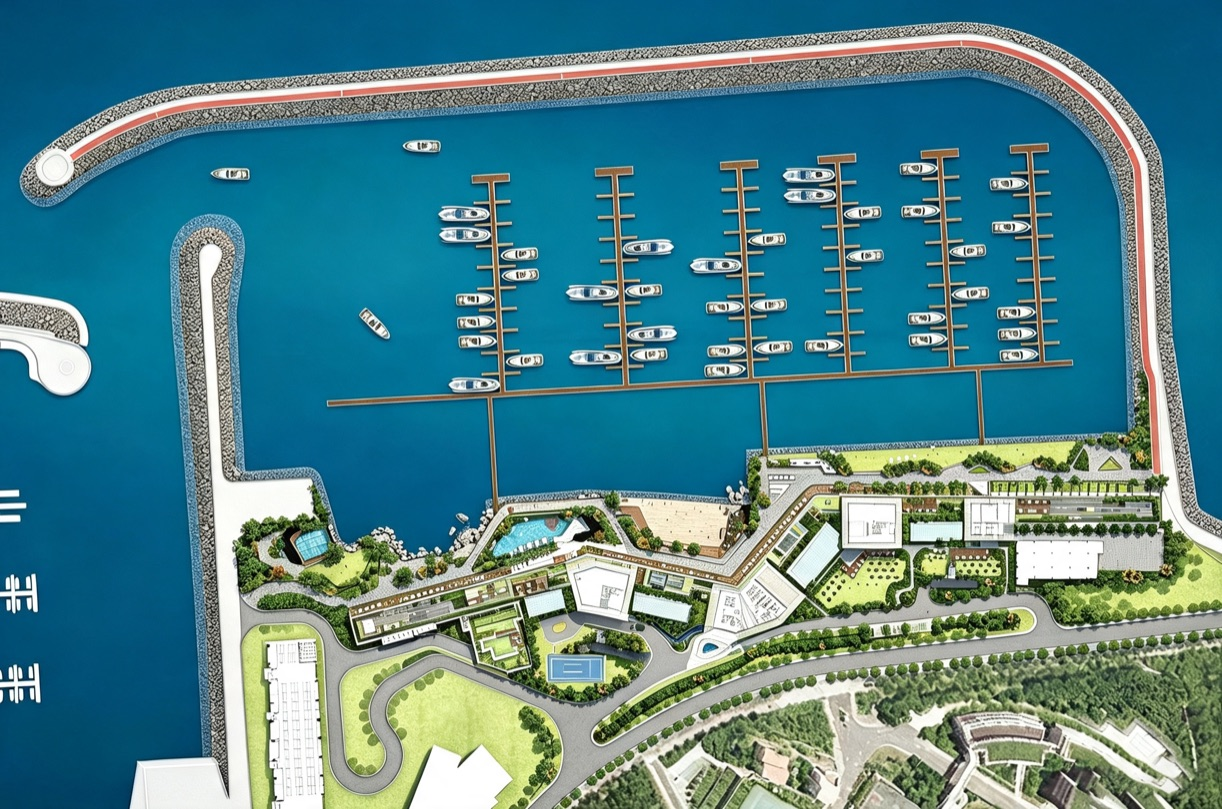
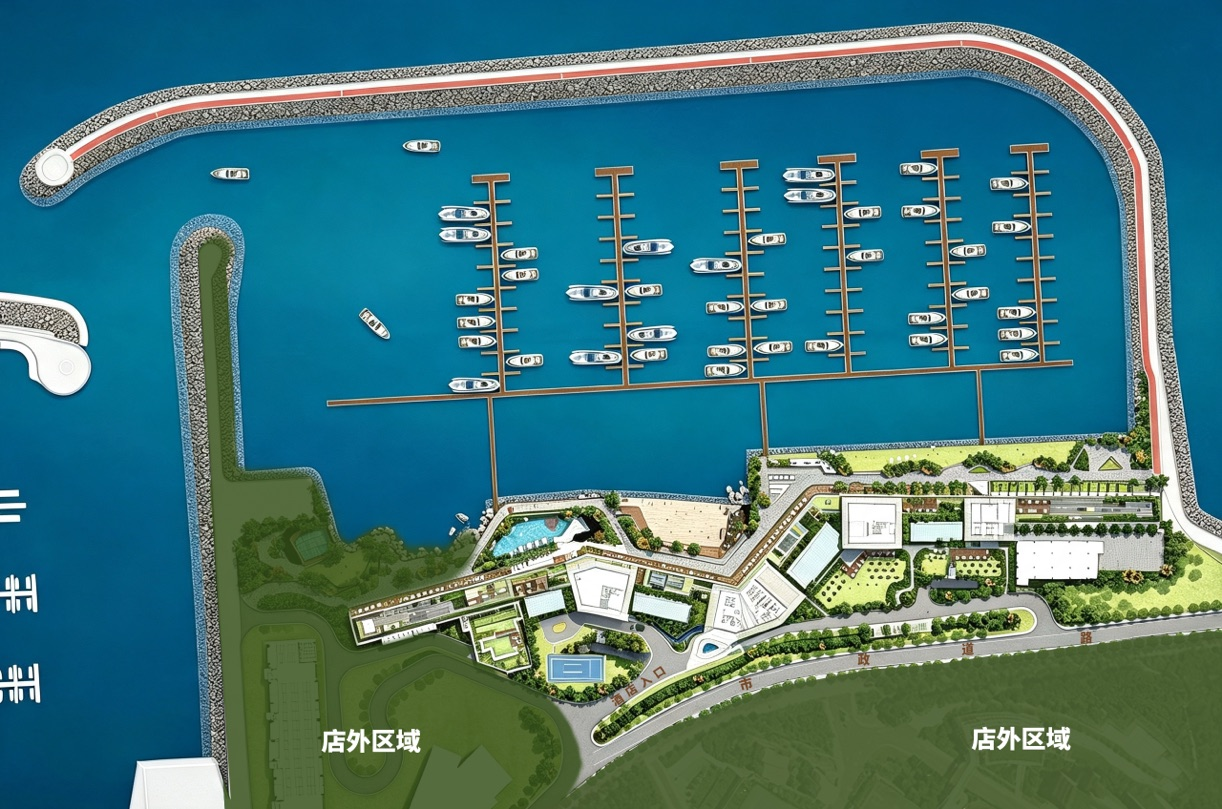
更新背景图，调整点位区域标签：一层直升机停机坪/一层云尚餐厅/一层蓝色海滨栈道/六层户外婚礼场地，宠物乐园改为网红打卡

diff --git a/data/points.js b/data/points.js
@@ -66,7 +66,7 @@ const GUIDE_DATA = {
         {
           "title": "直升机巡礼：云端邂逅玻璃海",
           "category": "aviation",
-          "area": "直升机停机坪",
+          "area": "一层直升机停机坪",
           "summary": "俯瞰杨梅坑玻璃海与美人鱼悬崖秘境",
           "story": "云端之侧，心跳与螺旋桨一同跃动。从高空俯瞰，杨梅坑的玻璃海像一块被风揉碎的蓝宝石，浪痕如丝缎般蜿蜒。鹿嘴悬崖的嶙峋轮廓逐渐清晰——那是周星驰电影《美人鱼》里人鱼眺望人类世界的礁石舞台。10分钟飞行，足够在脑海里留下这片深圳梦幻玻璃海。酒店还提供直升机航线服务，从酒店停机坪出发，可飞往福田、南山、深圳北站、宝安机场等交通枢纽，将梧桐山、大梅沙、小梅沙、玫瑰海岸等知名景点尽收眼底。",
           "audio": "audio/p02.mp3",
@@ -120,7 +120,7 @@ const GUIDE_DATA = {
         {
           "title": "海上小火车",
           "category": "family",
-          "area": "海滨蓝色栈道",
+          "area": "一层蓝色海滨栈道",
           "summary": "卡通主题小火车驶入蔚蓝海岸的童话之境",
           "story": "海上小火车是人气必打卡项目。汽笛鸣响，从陆地缓缓驶入连接蔚蓝海岸的梦幻童话之境，童话里的同款天空与云朵化为陪衬，你就是主人公的故事背景。",
           "audio": "audio/p05.mp3",
@@ -156,7 +156,7 @@ const GUIDE_DATA = {
         {
           "title": "海之舞台",
           "category": "landmark",
-          "area": "户外婚礼场地",
+          "area": "六层户外婚礼场地",
           "summary": "浪漫婚典与海誓山盟目的地",
           "story": "在七娘山下的云雾之湾，酒店「海之舞台」有着得天独厚的户外婚礼和情侣出片条件：绝美玻璃海景，由碧玺般的翠绿色过渡到与天空一样的湛蓝色，身后是出现在画卷里的立体云朵和美轮美奂的落日晚霞。爱人们便会携手在山海的见证下，在此留下难忘的人生记忆。",
           "audio": "audio/p07.mp3",
@@ -174,7 +174,7 @@ const GUIDE_DATA = {
         {
           "title": "云尚餐厅",
           "category": "food",
-          "area": "1层云尚餐厅",
+          "area": "一层云尚餐厅",
           "summary": "本港海鲜与经典粤菜，在海滨风光里畅享舌尖盛宴。",
           "story": "位于1层的云尚餐厅呈献本港特色海鲜与经典粤菜美馔。从脆皮乳鸽到岭南荔枝虾球，道道都是粤菜主厨的看家手艺。临窗而坐，眼前是游艇桅杆与椰树林立，在海滨风光里畅享舌尖盛宴。",
           "audio": "audio/p08.mp3",
@@ -190,7 +190,7 @@ const GUIDE_DATA = {
       "cards": [
         {
           "title": "宠物乐园——快乐社交领地",
-          "category": "overview",
+          "category": "landmark",
           "area": "一层草坪区域",
           "summary": "让爱宠肆意撒欢，解锁多样趣味玩法",
           "story": "在海边草地上肆意奔跑，在迷你跨栏、隧道等宠物设施里穿梭，毛孩子可以尽情撒欢，兴奋值拉满。躺平亦或撒野，都是不可复刻的出片记忆。",

diff --git a/sw.js b/sw.js
@@ -1,4 +1,4 @@
-const CACHE_NAME = 'langqi-guide-color-v3';
+const CACHE_NAME = 'langqi-guide-color-v4';
 const ASSETS = [
   './',
   './index.html',
